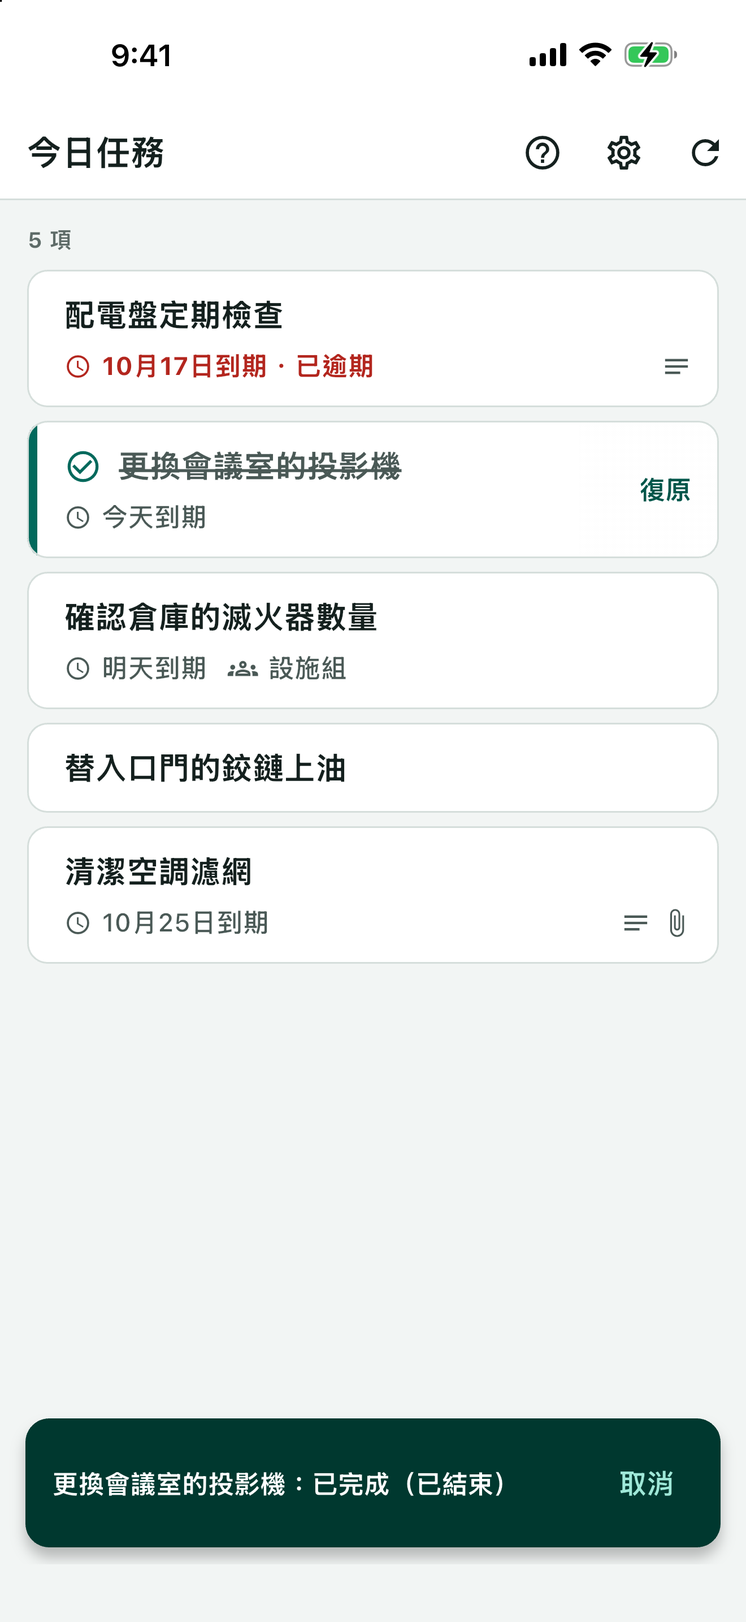
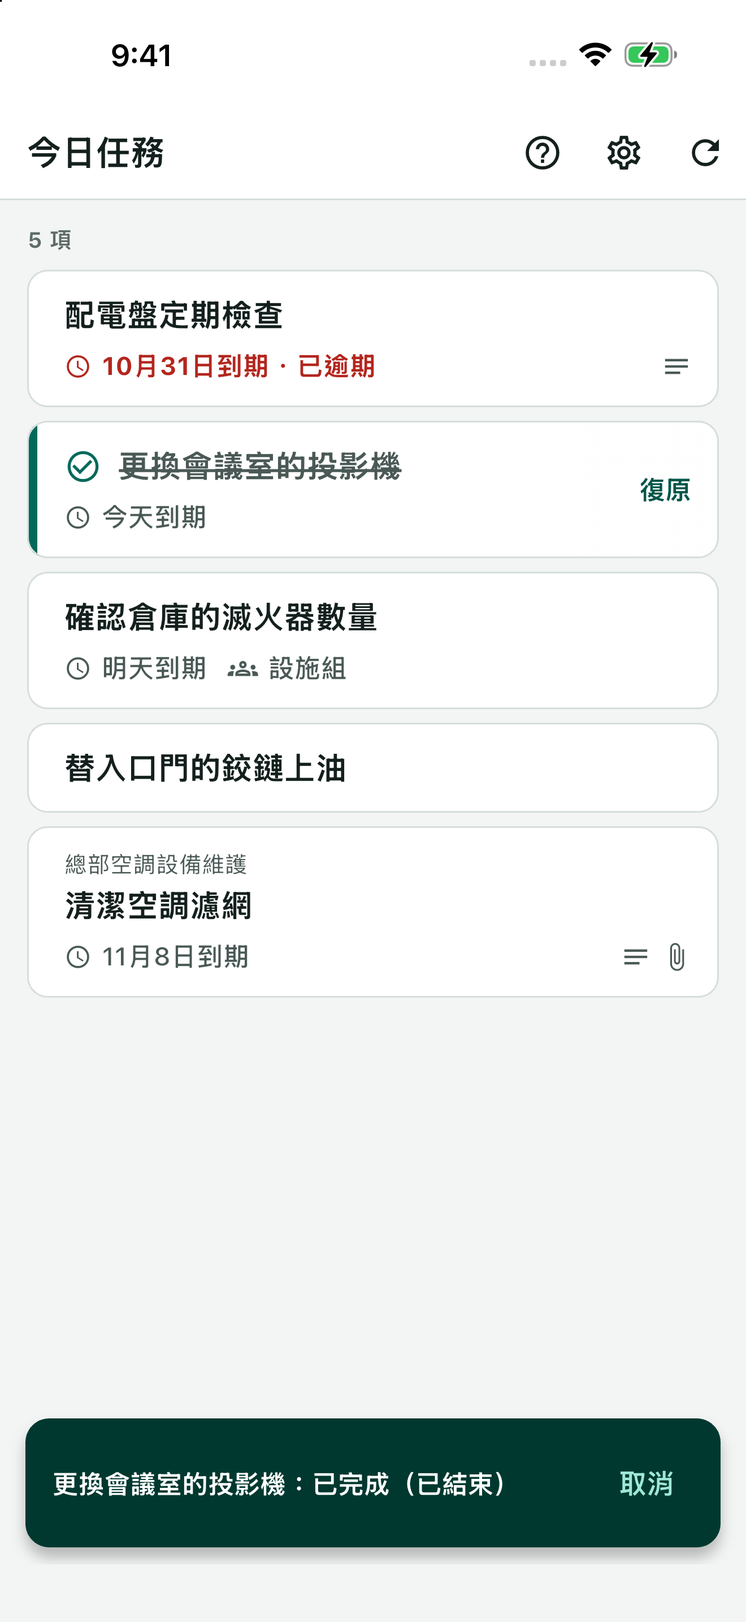
1.4.3公開準備：親タスク名・米国英語掲載・計測リンク (#116)
* Prepare 1.4.3 release metadata, campaigns and review parent task

* Finish 1.4.3 screenshots and release review materials

diff --git a/ja/support.html b/ja/support.html
@@ -8,7 +8,7 @@
 <p>接続先によっては利用できない場合があります。詳しくは「<a href="#unsupported">動作未確認の環境</a>」をご覧ください。</p>
 </section><section><h2 id="start">使い始める</h2>
 <ol><li>アプリを開き、接続先のRedmineのURLを入力します。</li><li>「APIキーをRedmineで取得」をタップします。ブラウザでRedmineが開いたらログインし、表示されたAPIキーをコピーします。</li><li>BeatMineに戻り、「貼り付けて接続」をタップします。APIキーを取得済みの場合は、入力欄に貼り付けて「接続」をタップすることもできます。</li><li>接続すると、担当するタスクの一覧が表示されます。</li></ol>
-</section><section><h2 id="usage">使い方</h2><ul class="points"><li>自分や所属グループが担当する未完了のタスクを一覧で確認できます。グループが担当するタスクにはグループ名が表示され、期限を過ぎたタスクは赤で表示されます。</li><li>タスクの行を右にスワイプすると、完了にできます。取り消しの条件は「<a href="#faq">よくある質問</a>」をご覧ください。</li><li>完了時に入力が必要な項目があるタスクは、スワイプすると入力欄が表示され、入力してそのまま完了できます。アプリで入力できるのは、期日・開始日・予定工数・カテゴリ・対象バージョン・説明です。カスタムフィールドの入力が必要な場合は、RedmineのWeb画面で完了してください。</li><li>タスクの行をタップすると、開始日・期日・予定工数・カテゴリ・対象バージョン・説明を変更できます。変更した直後は、通知の「取り消す」で元に戻せます。</li><li>タスクの行をタップすると、説明や添付ファイルを確認できます。画像はアプリ内で開いて拡大できます。説明や添付ファイルがあるタスクには、一覧にアイコンが表示されます。</li><li>タスクの行をタップすると、過去のコメントを新しい順に確認できます。自分のコメントには「自分」と表示されます。前回開いたあとに更新されたタスクには、一覧に点が表示されます。</li><li>「コメントを書く」をタップすると、過去のコメントを読みながらコメントを作成・送信できます。送信したコメントはRedmineの履歴に残ります。</li><li>一覧に複数のプロジェクトのタスクがある場合は、タイトル横の「絞り込み」アイコンから、表示するプロジェクトを選べます。選択内容は、次回アプリを開いたときも引き継がれます。</li></ul></section><section><h2 id="trouble">困ったとき</h2>
+</section><section><h2 id="usage">使い方</h2><ul class="points"><li>親タスクがある場合は、一覧で親タスク名とあわせて内容を確認できます。一覧での表示は設定で切り替えられます。タスクを開くと、一覧の設定にかかわらず親タスク名を全文で確認できます。</li><li>自分や所属グループが担当する未完了のタスクを一覧で確認できます。グループが担当するタスクにはグループ名が表示され、期限を過ぎたタスクは赤で表示されます。</li><li>タスクの行を右にスワイプすると、完了にできます。取り消しの条件は「<a href="#faq">よくある質問</a>」をご覧ください。</li><li>完了時に入力が必要な項目があるタスクは、スワイプすると入力欄が表示され、入力してそのまま完了できます。アプリで入力できるのは、期日・開始日・予定工数・カテゴリ・対象バージョン・説明です。カスタムフィールドの入力が必要な場合は、RedmineのWeb画面で完了してください。</li><li>タスクの行をタップすると、開始日・期日・予定工数・カテゴリ・対象バージョン・説明を変更できます。変更した直後は、通知の「取り消す」で元に戻せます。</li><li>タスクの行をタップすると、説明や添付ファイルを確認できます。画像はアプリ内で開いて拡大できます。説明や添付ファイルがあるタスクには、一覧にアイコンが表示されます。</li><li>タスクの行をタップすると、過去のコメントを新しい順に確認できます。自分のコメントには「自分」と表示されます。前回開いたあとに更新されたタスクには、一覧に点が表示されます。</li><li>「コメントを書く」をタップすると、過去のコメントを読みながらコメントを作成・送信できます。送信したコメントはRedmineの履歴に残ります。</li><li>一覧に複数のプロジェクトのタスクがある場合は、タイトル横の「絞り込み」アイコンから、表示するプロジェクトを選べます。選択内容は、次回アプリを開いたときも引き継がれます。</li></ul></section><section><h2 id="trouble">困ったとき</h2>
 <p>画面に表示されたメッセージに合わせて、以下の対処方法をご確認ください。</p>
 <h3>接続できないとき</h3>
 <p>「Redmineに接続できません。」と表示された場合は、原因を示すメッセージを確認してください。URLやAPIキーに誤りがある場合は、それぞれの入力欄の下に表示されます。それ以外の原因は「詳細」から確認できます。</p>

diff --git a/support.html b/support.html
@@ -8,7 +8,7 @@
 <p>接続先によっては利用できない場合があります。詳しくは「<a href="#unsupported">動作未確認の環境</a>」をご覧ください。</p>
 </section><section><h2 id="start">使い始める</h2>
 <ol><li>アプリを開き、接続先のRedmineのURLを入力します。</li><li>「APIキーをRedmineで取得」をタップします。ブラウザでRedmineが開いたらログインし、表示されたAPIキーをコピーします。</li><li>BeatMineに戻り、「貼り付けて接続」をタップします。APIキーを取得済みの場合は、入力欄に貼り付けて「接続」をタップすることもできます。</li><li>接続すると、担当するタスクの一覧が表示されます。</li></ol>
-</section><section><h2 id="usage">使い方</h2><ul class="points"><li>自分や所属グループが担当する未完了のタスクを一覧で確認できます。グループが担当するタスクにはグループ名が表示され、期限を過ぎたタスクは赤で表示されます。</li><li>タスクの行を右にスワイプすると、完了にできます。取り消しの条件は「<a href="#faq">よくある質問</a>」をご覧ください。</li><li>完了時に入力が必要な項目があるタスクは、スワイプすると入力欄が表示され、入力してそのまま完了できます。アプリで入力できるのは、期日・開始日・予定工数・カテゴリ・対象バージョン・説明です。カスタムフィールドの入力が必要な場合は、RedmineのWeb画面で完了してください。</li><li>タスクの行をタップすると、開始日・期日・予定工数・カテゴリ・対象バージョン・説明を変更できます。変更した直後は、通知の「取り消す」で元に戻せます。</li><li>タスクの行をタップすると、説明や添付ファイルを確認できます。画像はアプリ内で開いて拡大できます。説明や添付ファイルがあるタスクには、一覧にアイコンが表示されます。</li><li>タスクの行をタップすると、過去のコメントを新しい順に確認できます。自分のコメントには「自分」と表示されます。前回開いたあとに更新されたタスクには、一覧に点が表示されます。</li><li>「コメントを書く」をタップすると、過去のコメントを読みながらコメントを作成・送信できます。送信したコメントはRedmineの履歴に残ります。</li><li>一覧に複数のプロジェクトのタスクがある場合は、タイトル横の「絞り込み」アイコンから、表示するプロジェクトを選べます。選択内容は、次回アプリを開いたときも引き継がれます。</li></ul></section><section><h2 id="trouble">困ったとき</h2>
+</section><section><h2 id="usage">使い方</h2><ul class="points"><li>親タスクがある場合は、一覧で親タスク名とあわせて内容を確認できます。一覧での表示は設定で切り替えられます。タスクを開くと、一覧の設定にかかわらず親タスク名を全文で確認できます。</li><li>自分や所属グループが担当する未完了のタスクを一覧で確認できます。グループが担当するタスクにはグループ名が表示され、期限を過ぎたタスクは赤で表示されます。</li><li>タスクの行を右にスワイプすると、完了にできます。取り消しの条件は「<a href="#faq">よくある質問</a>」をご覧ください。</li><li>完了時に入力が必要な項目があるタスクは、スワイプすると入力欄が表示され、入力してそのまま完了できます。アプリで入力できるのは、期日・開始日・予定工数・カテゴリ・対象バージョン・説明です。カスタムフィールドの入力が必要な場合は、RedmineのWeb画面で完了してください。</li><li>タスクの行をタップすると、開始日・期日・予定工数・カテゴリ・対象バージョン・説明を変更できます。変更した直後は、通知の「取り消す」で元に戻せます。</li><li>タスクの行をタップすると、説明や添付ファイルを確認できます。画像はアプリ内で開いて拡大できます。説明や添付ファイルがあるタスクには、一覧にアイコンが表示されます。</li><li>タスクの行をタップすると、過去のコメントを新しい順に確認できます。自分のコメントには「自分」と表示されます。前回開いたあとに更新されたタスクには、一覧に点が表示されます。</li><li>「コメントを書く」をタップすると、過去のコメントを読みながらコメントを作成・送信できます。送信したコメントはRedmineの履歴に残ります。</li><li>一覧に複数のプロジェクトのタスクがある場合は、タイトル横の「絞り込み」アイコンから、表示するプロジェクトを選べます。選択内容は、次回アプリを開いたときも引き継がれます。</li></ul></section><section><h2 id="trouble">困ったとき</h2>
 <p>画面に表示されたメッセージに合わせて、以下の対処方法をご確認ください。</p>
 <h3>接続できないとき</h3>
 <p>「Redmineに接続できません。」と表示された場合は、原因を示すメッセージを確認してください。URLやAPIキーに誤りがある場合は、それぞれの入力欄の下に表示されます。それ以外の原因は「詳細」から確認できます。</p>

diff --git a/ko/support.html b/ko/support.html
@@ -8,7 +8,7 @@
 <p>사용할 수 없는 환경은 ‘지원하지 않는 것’에 정리되어 있습니다.</p>
 </section><section><h2 id="start">시작하기</h2>
 <ol><li>앱을 열고 Redmine URL을 입력합니다.</li><li>‘Redmine에서 API 키 받기’를 누릅니다. 브라우저에서 Redmine이 열리면 로그인하고, 표시된 API 키를 복사합니다. BeatMine으로 돌아와 ‘붙여넣고 연결’을 누릅니다. API 키가 있다면 입력란에 넣고 ‘연결’을 눌러도 됩니다.</li><li>내 작업 목록이 표시됩니다.</li></ol>
-</section><section><h2 id="usage">사용 방법</h2><ul class="points"><li>나 또는 내가 속한 그룹이 담당하는, 아직 끝나지 않은 작업만 표시됩니다. 그룹 담당 작업에는 그룹 이름이 표시됩니다. 기한이 지난 작업은 빨간색으로 표시됩니다.</li><li>작업을 오른쪽으로 밀면 완료됩니다. 바로 되돌릴 수 있습니다.</li><li>완료할 때 입력해야 하는 항목이 있는 작업은, 밀면 입력란이 표시되고 입력한 뒤 그대로 완료할 수 있습니다. 앱에서 입력할 수 있는 항목은 완료 기한·시작 시간·추정 시간·범주·목표 버전·설명입니다. 사용자 정의 항목을 입력해야 하는 경우에는 Redmine 화면에서 완료하세요.</li><li>작업을 탭하면 시작 시간·완료 기한·추정 시간·범주·목표 버전·설명을 변경할 수 있습니다. 변경한 직후에는 알림의 ‘취소’로 원래대로 되돌릴 수 있습니다.</li><li>작업을 탭하면 작업의 설명과 첨부 파일을 읽을 수 있습니다. 이미지는 앱에서 열어 확대할 수 있습니다. 설명이나 첨부가 있는 작업에는 줄에 표시가 나옵니다.</li><li>작업을 탭하면 지금까지의 댓글을 최신순으로 읽을 수 있습니다. 내가 쓴 댓글에는 ‘나’라고 표시됩니다. 지난번에 연 뒤 업데이트된 작업에는 줄에 점이 표시됩니다.</li><li>‘댓글 쓰기’로 이전 댓글을 읽으면서 댓글을 보낼 수 있습니다. 내용은 Redmine 이력에 남습니다.</li><li>목록의 작업이 두 개 이상의 프로젝트에 걸쳐 있으면, 제목 옆의 ‘필터’ 아이콘으로 프로젝트별로 목록을 필터링할 수 있습니다. 선택한 프로젝트는 다음에 열 때도 유지됩니다.</li></ul></section><section><h2 id="trouble">문제가 생겼을 때</h2>
+</section><section><h2 id="usage">사용 방법</h2><ul class="points"><li>상위 작업이 있으면 목록에서 상위 작업 이름과 함께 작업 내용을 파악할 수 있습니다. 설정에서 목록 표시를 끌 수 있습니다. 작업을 열면 목록 설정과 관계없이 상위 작업 이름 전체를 확인할 수 있습니다.</li><li>나 또는 내가 속한 그룹이 담당하는, 아직 끝나지 않은 작업만 표시됩니다. 그룹 담당 작업에는 그룹 이름이 표시됩니다. 기한이 지난 작업은 빨간색으로 표시됩니다.</li><li>작업을 오른쪽으로 밀면 완료됩니다. 바로 되돌릴 수 있습니다.</li><li>완료할 때 입력해야 하는 항목이 있는 작업은, 밀면 입력란이 표시되고 입력한 뒤 그대로 완료할 수 있습니다. 앱에서 입력할 수 있는 항목은 완료 기한·시작 시간·추정 시간·범주·목표 버전·설명입니다. 사용자 정의 항목을 입력해야 하는 경우에는 Redmine 화면에서 완료하세요.</li><li>작업을 탭하면 시작 시간·완료 기한·추정 시간·범주·목표 버전·설명을 변경할 수 있습니다. 변경한 직후에는 알림의 ‘취소’로 원래대로 되돌릴 수 있습니다.</li><li>작업을 탭하면 작업의 설명과 첨부 파일을 읽을 수 있습니다. 이미지는 앱에서 열어 확대할 수 있습니다. 설명이나 첨부가 있는 작업에는 줄에 표시가 나옵니다.</li><li>작업을 탭하면 지금까지의 댓글을 최신순으로 읽을 수 있습니다. 내가 쓴 댓글에는 ‘나’라고 표시됩니다. 지난번에 연 뒤 업데이트된 작업에는 줄에 점이 표시됩니다.</li><li>‘댓글 쓰기’로 이전 댓글을 읽으면서 댓글을 보낼 수 있습니다. 내용은 Redmine 이력에 남습니다.</li><li>목록의 작업이 두 개 이상의 프로젝트에 걸쳐 있으면, 제목 옆의 ‘필터’ 아이콘으로 프로젝트별로 목록을 필터링할 수 있습니다. 선택한 프로젝트는 다음에 열 때도 유지됩니다.</li></ul></section><section><h2 id="trouble">문제가 생겼을 때</h2>
 <p>화면에 표시된 문구를 찾아 주세요.</p>
 <h3>연결할 때</h3>
 <p>‘Redmine에 연결할 수 없습니다.’라고 표시되면 원인을 확인합니다. URL과 API 키의 오류는 해당 입력란 아래에 표시됩니다. 그 밖의 원인은 ‘자세히’를 누르면 표시됩니다.</p>

diff --git a/de/support.html b/de/support.html
@@ -8,7 +8,7 @@
 <p>Nicht unterstützte Umgebungen finden Sie unter „Nicht unterstützt“.</p>
 </section><section><h2 id="start">Erste Schritte</h2>
 <ol><li>Öffnen Sie die App und geben Sie die URL Ihres Redmine ein.</li><li>Tippen Sie auf „API-Schlüssel in Redmine abrufen“. Redmine öffnet sich im Browser. Melden Sie sich an und kopieren Sie den angezeigten API-Schlüssel. Kehren Sie zu BeatMine zurück und tippen Sie auf „Einfügen und verbinden“. Haben Sie den API-Schlüssel bereits, können Sie ihn eingeben und auf „Verbinden“ tippen.</li><li>Ihre Aufgabenliste erscheint.</li></ol>
-</section><section><h2 id="usage">Bedienung</h2><ul class="points"><li>Es werden nur offene Aufgaben angezeigt, die Ihnen oder einer Ihrer Gruppen zugewiesen sind. Bei Gruppenaufgaben steht der Gruppenname dabei. Überfällige Aufgaben erscheinen rot.</li><li>Wischen Sie eine Aufgabe nach rechts, um sie zu erledigen. Sie können das sofort rückgängig machen.</li><li>Müssen zum Erledigen Felder ausgefüllt werden, zeigt das Wischen ein Formular; nach dem Ausfüllen ist die Aufgabe erledigt. In der App ausfüllen lassen sich Abgabedatum, Beginn, geschätzter Aufwand, Kategorie, Zielversion und Beschreibung. Ist ein benutzerdefiniertes Feld nötig, erledigen Sie die Aufgabe in Redmine.</li><li>Tippen Sie auf eine Aufgabe, um Beginn, Abgabedatum, geschätzten Aufwand, Kategorie, Zielversion und Beschreibung zu ändern. Direkt nach einer Änderung stellt „Rückgängig“ im Hinweis den vorherigen Wert wieder her.</li><li>Tippen Sie auf eine Aufgabe, um Beschreibung und Anhänge zu lesen. Bilder öffnen sich in der App und lassen sich vergrößern. Aufgaben mit Beschreibung oder Anhängen tragen ein Symbol in der Zeile.</li><li>Tippen Sie auf eine Aufgabe, um ihre früheren Kommentare zu lesen, die neuesten zuerst. Ihre eigenen sind mit „Du“ gekennzeichnet. Ein Punkt erscheint in der Zeile einer Aufgabe, die seit dem letzten Öffnen aktualisiert wurde.</li><li>Mit „Kommentar schreiben“ senden Sie einen Kommentar, während Sie die früheren lesen. Er wird in der Redmine-Historie gespeichert.</li><li>Gehören die Aufgaben der Liste zu zwei oder mehr Projekten, können Sie die Liste über das Symbol „Filtern“ neben dem Titel nach Projekt filtern. Die gewählten Projekte bleiben beim nächsten Öffnen erhalten.</li></ul></section><section><h2 id="trouble">Wenn etwas nicht klappt</h2>
+</section><section><h2 id="usage">Bedienung</h2><ul class="points"><li>Hat eine Aufgabe eine übergeordnete Aufgabe, hilft deren Name in der Liste, den Zusammenhang zu erkennen. Sie können diese Anzeige in den Einstellungen ausschalten. Öffnen Sie die Aufgabe, um den vollständigen Namen unabhängig von der Listeneinstellung zu lesen.</li><li>Es werden nur offene Aufgaben angezeigt, die Ihnen oder einer Ihrer Gruppen zugewiesen sind. Bei Gruppenaufgaben steht der Gruppenname dabei. Überfällige Aufgaben erscheinen rot.</li><li>Wischen Sie eine Aufgabe nach rechts, um sie zu erledigen. Sie können das sofort rückgängig machen.</li><li>Müssen zum Erledigen Felder ausgefüllt werden, zeigt das Wischen ein Formular; nach dem Ausfüllen ist die Aufgabe erledigt. In der App ausfüllen lassen sich Abgabedatum, Beginn, geschätzter Aufwand, Kategorie, Zielversion und Beschreibung. Ist ein benutzerdefiniertes Feld nötig, erledigen Sie die Aufgabe in Redmine.</li><li>Tippen Sie auf eine Aufgabe, um Beginn, Abgabedatum, geschätzten Aufwand, Kategorie, Zielversion und Beschreibung zu ändern. Direkt nach einer Änderung stellt „Rückgängig“ im Hinweis den vorherigen Wert wieder her.</li><li>Tippen Sie auf eine Aufgabe, um Beschreibung und Anhänge zu lesen. Bilder öffnen sich in der App und lassen sich vergrößern. Aufgaben mit Beschreibung oder Anhängen tragen ein Symbol in der Zeile.</li><li>Tippen Sie auf eine Aufgabe, um ihre früheren Kommentare zu lesen, die neuesten zuerst. Ihre eigenen sind mit „Du“ gekennzeichnet. Ein Punkt erscheint in der Zeile einer Aufgabe, die seit dem letzten Öffnen aktualisiert wurde.</li><li>Mit „Kommentar schreiben“ senden Sie einen Kommentar, während Sie die früheren lesen. Er wird in der Redmine-Historie gespeichert.</li><li>Gehören die Aufgaben der Liste zu zwei oder mehr Projekten, können Sie die Liste über das Symbol „Filtern“ neben dem Titel nach Projekt filtern. Die gewählten Projekte bleiben beim nächsten Öffnen erhalten.</li></ul></section><section><h2 id="trouble">Wenn etwas nicht klappt</h2>
 <p>Suchen Sie die Meldung, die auf dem Bildschirm erscheint.</p>
 <h3>Beim Verbinden</h3>
 <p>Erscheint „Keine Verbindung zu Redmine möglich.“, prüfen Sie die Ursache. Eine falsche URL oder ein falscher API-Schlüssel wird unter dem jeweiligen Feld angezeigt. Andere Ursachen sehen Sie über „Details“.</p>

diff --git a/fr/support.html b/fr/support.html
@@ -8,7 +8,7 @@
 <p>Les environnements non pris en charge sont listés dans « Non pris en charge ».</p>
 </section><section><h2 id="start">Pour commencer</h2>
 <ol><li>Ouvrez l'application et saisissez l'URL de votre Redmine.</li><li>Touchez « Obtenir la clé d'API dans Redmine ». Redmine s'ouvre dans le navigateur. Connectez-vous et copiez la clé d'API affichée. Revenez dans BeatMine et touchez « Coller et se connecter ». Si vous avez déjà votre clé d'API, vous pouvez la saisir et toucher « Se connecter ».</li><li>La liste de vos tâches s'affiche.</li></ol>
-</section><section><h2 id="usage">Utilisation</h2><ul class="points"><li>Seules les tâches non terminées qui vous sont assignées, à vous ou à un groupe dont vous faites partie, sont listées. Les tâches d'un groupe indiquent le nom du groupe. Les tâches en retard apparaissent en rouge.</li><li>Balayez une tâche vers la droite pour la terminer. Vous pouvez annuler aussitôt.</li><li>Si des champs doivent être remplis pour terminer une tâche, le balayage affiche un formulaire : remplissez-le pour la terminer. L'app peut remplir l'échéance, le début, le temps estimé, la catégorie, la version cible et la description. Si un champ personnalisé est demandé, terminez la tâche dans Redmine.</li><li>Touchez une tâche pour modifier son début, son échéance, son temps estimé, sa catégorie, sa version cible et sa description. Juste après une modification, « Annuler » dans la notification rétablit la valeur précédente.</li><li>Touchez une tâche pour lire sa description et ses pièces jointes. Les images s'ouvrent dans l'app et peuvent être agrandies. Une icône signale les tâches qui ont une description ou des pièces jointes.</li><li>Touchez une tâche pour lire ses commentaires précédents, du plus récent au plus ancien. Les vôtres sont marqués « Vous ». Un point apparaît sur la ligne d'une tâche mise à jour depuis votre dernière ouverture.</li><li>« Écrire un commentaire » permet d'envoyer un commentaire tout en lisant les précédents. Il est conservé dans l'historique de Redmine.</li><li>Quand les tâches de la liste appartiennent à deux projets ou plus, l'icône « Filtrer » à côté du titre permet de filtrer la liste par projet. Les projets choisis sont conservés à la prochaine ouverture.</li></ul></section><section><h2 id="trouble">En cas de problème</h2>
+</section><section><h2 id="usage">Utilisation</h2><ul class="points"><li>Lorsqu’une tâche a une tâche parente, son nom aide à comprendre le travail dans la liste. Vous pouvez masquer cet élément dans les réglages. Ouvrez la tâche pour lire le nom complet de la tâche parente, quel que soit le réglage de la liste.</li><li>Seules les tâches non terminées qui vous sont assignées, à vous ou à un groupe dont vous faites partie, sont listées. Les tâches d'un groupe indiquent le nom du groupe. Les tâches en retard apparaissent en rouge.</li><li>Balayez une tâche vers la droite pour la terminer. Vous pouvez annuler aussitôt.</li><li>Si des champs doivent être remplis pour terminer une tâche, le balayage affiche un formulaire : remplissez-le pour la terminer. L'app peut remplir l'échéance, le début, le temps estimé, la catégorie, la version cible et la description. Si un champ personnalisé est demandé, terminez la tâche dans Redmine.</li><li>Touchez une tâche pour modifier son début, son échéance, son temps estimé, sa catégorie, sa version cible et sa description. Juste après une modification, « Annuler » dans la notification rétablit la valeur précédente.</li><li>Touchez une tâche pour lire sa description et ses pièces jointes. Les images s'ouvrent dans l'app et peuvent être agrandies. Une icône signale les tâches qui ont une description ou des pièces jointes.</li><li>Touchez une tâche pour lire ses commentaires précédents, du plus récent au plus ancien. Les vôtres sont marqués « Vous ». Un point apparaît sur la ligne d'une tâche mise à jour depuis votre dernière ouverture.</li><li>« Écrire un commentaire » permet d'envoyer un commentaire tout en lisant les précédents. Il est conservé dans l'historique de Redmine.</li><li>Quand les tâches de la liste appartiennent à deux projets ou plus, l'icône « Filtrer » à côté du titre permet de filtrer la liste par projet. Les projets choisis sont conservés à la prochaine ouverture.</li></ul></section><section><h2 id="trouble">En cas de problème</h2>
 <p>Cherchez le message affiché à l'écran.</p>
 <h3>À la connexion</h3>
 <p>Si « Impossible de se connecter à Redmine. » s'affiche, vérifiez la cause. Une erreur d'URL ou de clé d'API s'affiche sous le champ concerné. Les autres causes s'affichent en touchant « Détails ».</p>

diff --git a/en/support.html b/en/support.html
@@ -8,7 +8,7 @@
 <p>Environments that don't work are listed under “Not supported”.</p>
 </section><section><h2 id="start">Getting started</h2>
 <ol><li>Open the app and enter your Redmine URL.</li><li>Tap “Get the API key in Redmine”. Redmine opens in your browser. Sign in and copy the API key shown. Return to BeatMine and tap “Paste and connect”. If you already have your API key, you can enter it and tap “Connect”.</li><li>Your task list appears.</li></ol>
-</section><section><h2 id="usage">How to use</h2><ul class="points"><li>Only unfinished tasks assigned to you, or to a group you belong to, are listed. Tasks assigned to a group show the group name. Overdue tasks are shown in red.</li><li>Swipe a task right to complete it. You can undo it right away.</li><li>When fields must be filled in to complete a task, swiping it shows a form; fill it in and the task is completed. The app can fill in the due date, start date, estimated time, category, target version and description. If a custom field is required, complete the task in Redmine.</li><li>Tap a task to change its start date, due date, estimated time, category, target version and description. Right after a change, “Undo” in the notice puts it back.</li><li>Tap a task to read its description and attachments. Images open in the app and can be zoomed. Tasks with a description or attachments show an icon on their row.</li><li>Tap a task to read its earlier comments, newest first. Comments you wrote are shown as “You”. A dot appears on the row of a task that was updated since you last opened it.</li><li>“Write comment” lets you send a comment while reading the earlier ones. It is saved in the Redmine history.</li><li>When the listed tasks belong to two or more projects, the “Filter” icon next to the title lets you filter the list by project. The projects you choose are kept the next time you open the app.</li></ul></section><section><h2 id="trouble">If something goes wrong</h2>
+</section><section><h2 id="usage">How to use</h2><ul class="points"><li>When a task has a parent, its parent name helps you understand the work in the list. You can turn this list item off in Settings. Open the task to read the full parent name, regardless of the list setting.</li><li>Only unfinished tasks assigned to you, or to a group you belong to, are listed. Tasks assigned to a group show the group name. Overdue tasks are shown in red.</li><li>Swipe a task right to complete it. You can undo it right away.</li><li>When fields must be filled in to complete a task, swiping it shows a form; fill it in and the task is completed. The app can fill in the due date, start date, estimated time, category, target version and description. If a custom field is required, complete the task in Redmine.</li><li>Tap a task to change its start date, due date, estimated time, category, target version and description. Right after a change, “Undo” in the notice puts it back.</li><li>Tap a task to read its description and attachments. Images open in the app and can be zoomed. Tasks with a description or attachments show an icon on their row.</li><li>Tap a task to read its earlier comments, newest first. Comments you wrote are shown as “You”. A dot appears on the row of a task that was updated since you last opened it.</li><li>“Write comment” lets you send a comment while reading the earlier ones. It is saved in the Redmine history.</li><li>When the listed tasks belong to two or more projects, the “Filter” icon next to the title lets you filter the list by project. The projects you choose are kept the next time you open the app.</li></ul></section><section><h2 id="trouble">If something goes wrong</h2>
 <p>Look for the message shown on the screen.</p>
 <h3>When connecting</h3>
 <p>If you see “Can't connect to Redmine.”, check the cause. A wrong URL or API key is shown under that field. Other causes are shown when you tap “Details”.</p>

diff --git a/zh-hant/support.html b/zh-hant/support.html
@@ -8,7 +8,7 @@
 <p>無法使用的環境整理在「不支援的項目」。</p>
 </section><section><h2 id="start">開始使用</h2>
 <ol><li>開啟 App，輸入 Redmine 的 URL。</li><li>點「在 Redmine 取得 API 金鑰」。瀏覽器會開啟 Redmine，登入後複製顯示的 API 金鑰。回到 BeatMine，點「貼上並連線」。如果手邊已有 API 金鑰，也可以輸入後點「連線」。</li><li>畫面會顯示自己的任務清單。</li></ol>
-</section><section><h2 id="usage">使用方式</h2><ul class="points"><li>只列出由自己或自己所屬群組負責、尚未完成的任務。群組負責的任務會顯示群組名稱。超過期限的任務以紅色顯示。</li><li>將任務向右滑動即可完成，也能馬上取消。</li><li>完成時有必須填寫欄位的任務，滑動後會顯示填寫欄，填寫後即可直接完成。App 中可以填寫的是完成日期、開始日期、預估工時、分類、版本與概述。若需要填寫自訂欄位，請在 Redmine 的畫面上完成。</li><li>點一下任務，就能變更開始日期、完成日期、預估工時、分類、版本與概述。變更後立即點通知中的「取消」，即可復原。</li><li>點一下任務，就能閱讀任務的描述與附件。圖片可以在 App 中開啟並放大。有描述或附件的任務，項目上會顯示圖示。</li><li>點一下任務，就能依新到舊閱讀之前的留言。自己寫的留言會顯示為「我」。上次開啟後有更新的任務，項目上會出現一個點。</li><li>點「寫留言」，就能一邊閱讀之前的留言一邊傳送留言，內容會記錄在 Redmine 的歷史中。</li><li>清單中的任務分屬兩個以上的專案時，可以用標題旁的「篩選」圖示依專案篩選清單。選擇的專案在下次開啟時也會保留。</li></ul></section><section><h2 id="trouble">遇到問題時</h2>
+</section><section><h2 id="usage">使用方式</h2><ul class="points"><li>任務有父任務時，可在清單中透過父任務名稱了解工作內容。您可在設定中關閉此清單項目。開啟任務後，不論清單設定為何，都能查看完整的父任務名稱。</li><li>只列出由自己或自己所屬群組負責、尚未完成的任務。群組負責的任務會顯示群組名稱。超過期限的任務以紅色顯示。</li><li>將任務向右滑動即可完成，也能馬上取消。</li><li>完成時有必須填寫欄位的任務，滑動後會顯示填寫欄，填寫後即可直接完成。App 中可以填寫的是完成日期、開始日期、預估工時、分類、版本與概述。若需要填寫自訂欄位，請在 Redmine 的畫面上完成。</li><li>點一下任務，就能變更開始日期、完成日期、預估工時、分類、版本與概述。變更後立即點通知中的「取消」，即可復原。</li><li>點一下任務，就能閱讀任務的描述與附件。圖片可以在 App 中開啟並放大。有描述或附件的任務，項目上會顯示圖示。</li><li>點一下任務，就能依新到舊閱讀之前的留言。自己寫的留言會顯示為「我」。上次開啟後有更新的任務，項目上會出現一個點。</li><li>點「寫留言」，就能一邊閱讀之前的留言一邊傳送留言，內容會記錄在 Redmine 的歷史中。</li><li>清單中的任務分屬兩個以上的專案時，可以用標題旁的「篩選」圖示依專案篩選清單。選擇的專案在下次開啟時也會保留。</li></ul></section><section><h2 id="trouble">遇到問題時</h2>
 <p>請找出畫面上顯示的文字。</p>
 <h3>連線時</h3>
 <p>如果顯示「無法連線到 Redmine。」，請確認原因。URL 和 API 金鑰的錯誤會顯示在該輸入欄下方，其他原因點「詳細資料」即可看到。</p>

diff --git a/en/index.html b/en/index.html
@@ -11,8 +11,9 @@
 <span>Update Redmine<br>right where you are.</span>
 </h1>
 <p class="lead">Do Redmine updates wait until you’re back at your computer? With BeatMine, update Redmine from your phone as soon as the work is done. Share progress with your team and move the project forward.</p>
+<p class="fine">Requires an existing Redmine account and access to your team’s Redmine server over HTTPS, with the REST API enabled. Connect using your personal Redmine API key.</p>
 <div class="actions">
-<a class="cta" href="https://apps.apple.com/app/id6815222410?pt=129296110&amp;ct=site_en&amp;mt=8">Download on the App Store <span aria-hidden="true">↗</span>
+<a class="cta" href="https://apps.apple.com/app/apple-store/id6815222410?pt=129296110&amp;ct=site_en&amp;mt=8">Download on the App Store <span aria-hidden="true">↗</span>
 </a>
 <a class="secondary" href="#how">See how it works <span aria-hidden="true"> ↓</span>
 </a>
@@ -124,7 +125,7 @@
 <section class="end">
 <h2>Next time you finish a job,<br>update Redmine from your iPhone.</h2>
 <p class="next-step">Once connected, start by opening one of your assigned tasks.</p>
-<a class="cta" href="https://apps.apple.com/app/id6815222410?pt=129296110&amp;ct=site_en&amp;mt=8">Download on the App Store <span aria-hidden="true">↗</span>
+<a class="cta" href="https://apps.apple.com/app/apple-store/id6815222410?pt=129296110&amp;ct=site_en&amp;mt=8">Download on the App Store <span aria-hidden="true">↗</span>
 </a>
 <p>Free to use<br>For iPhone · iOS 15 or later</p>
 
